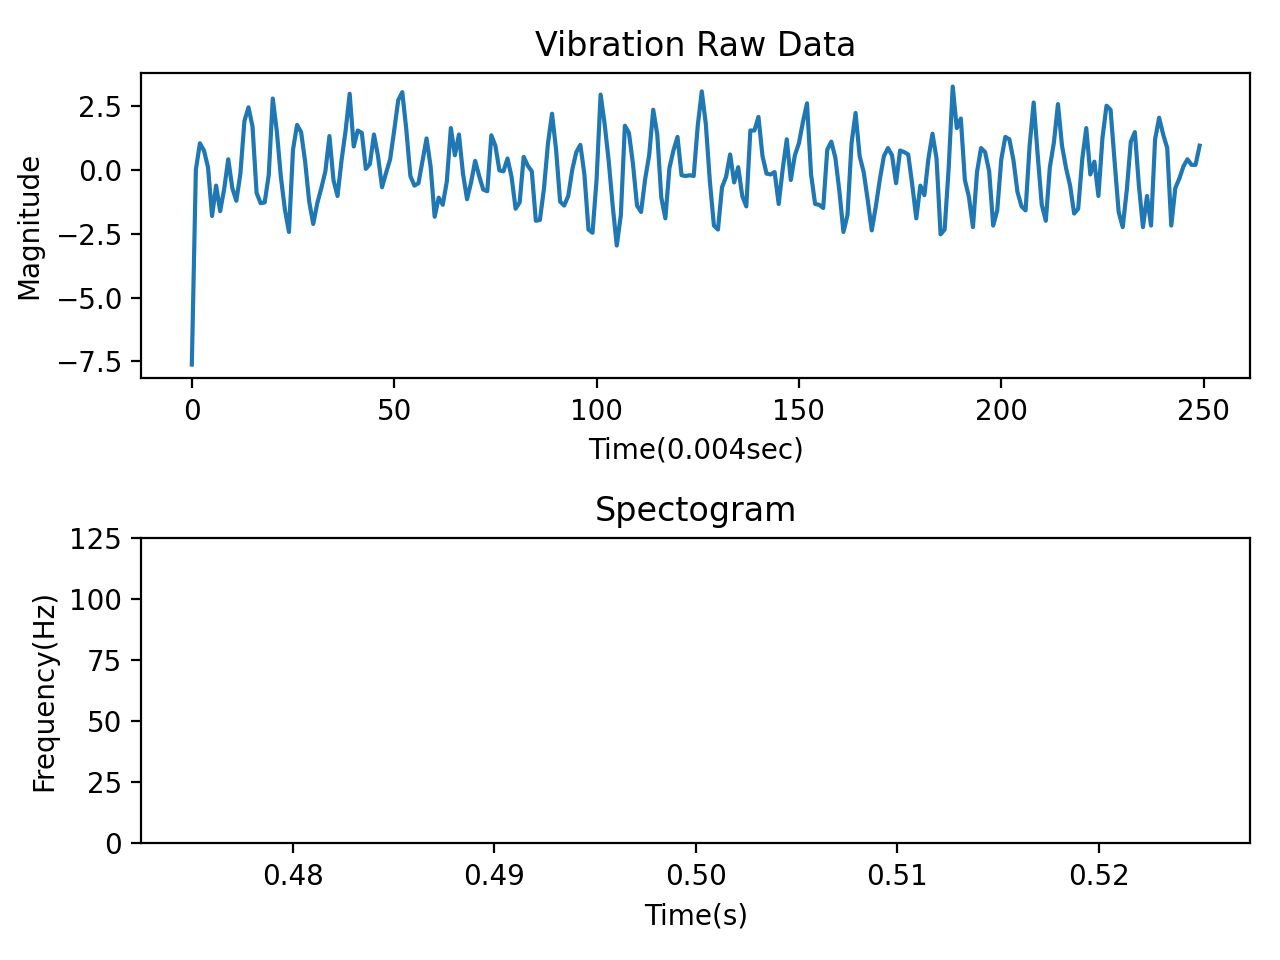
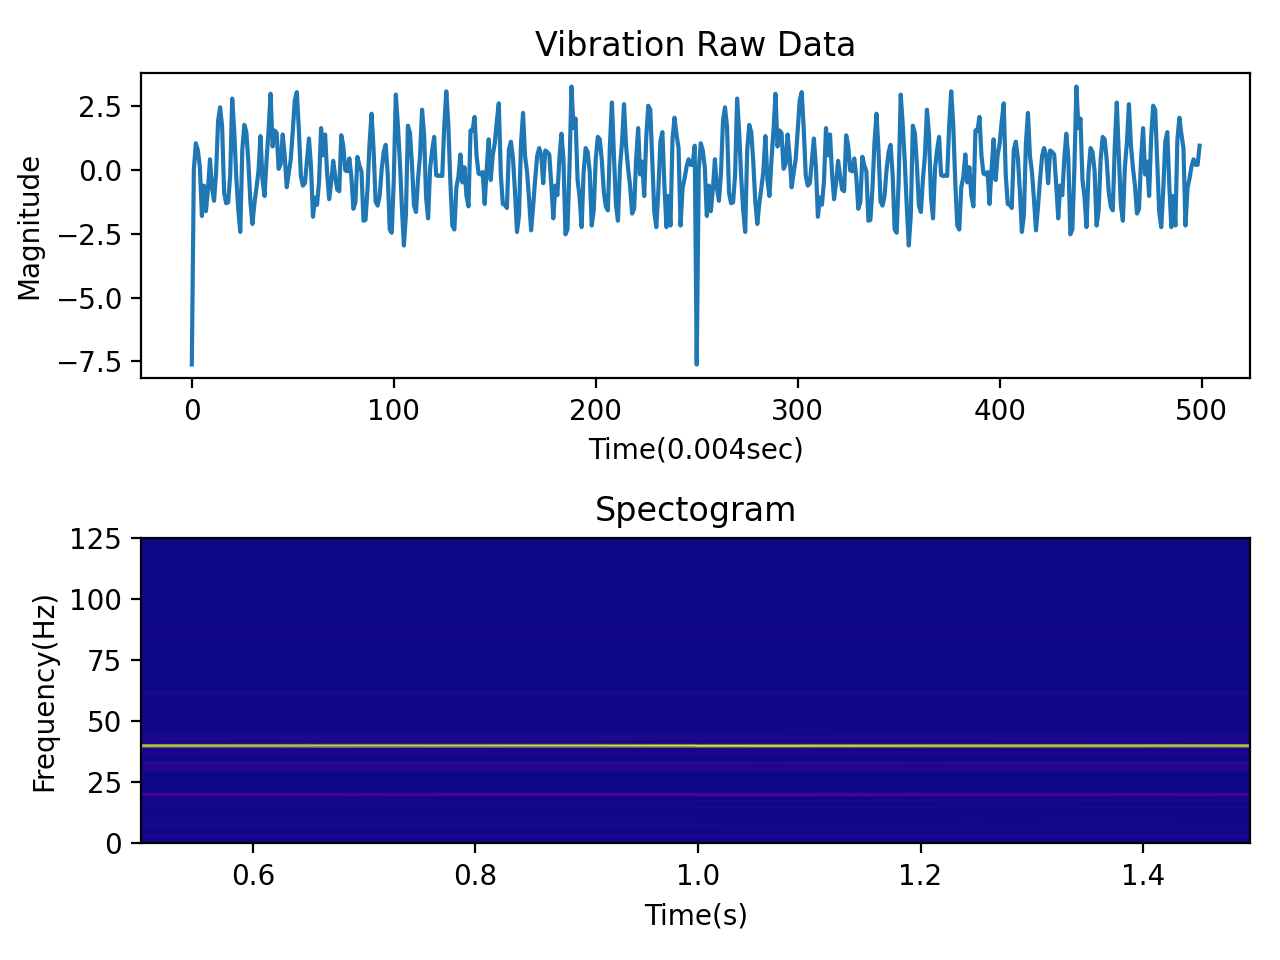
fixed

diff --git a/python/sensor_monitor/app.py b/python/sensor_monitor/app.py
@@ -34,26 +34,59 @@ WORKING_PATH = pathlib.Path(__file__).parent # working path
 APP_UI = WORKING_PATH / "MainWindow.ui" # Qt-based UI file
 APP_NAME = "vib-sensor-monitor" # application name
 
-def create_matplotlib_image():
-    # Matplotlib 그래프 생성 예제
-    fig, ax = plt.subplots()
-    ax.plot([1, 2, 3, 4], [1, 4, 2, 3])
-    ax.set_xlabel('X-axis')
-    ax.set_ylabel('Y-axis')
-    ax.set_title('Matplotlib Graph')
-
-    # 그래프를 이미지로 렌더링
-    fig.canvas.draw()
-
-    # QImage로 변환
-    width, height = fig.canvas.get_width_height()
-    print(width, height)
-    image = QImage(fig.canvas.buffer_rgba(), width, height, QImage.Format.Format_RGBA8888)
+def gaussian_spectrogram(x, fs, window_dur=0.005, step_dur=None, dyn_range=120, 
+                         cmap=None, ax=None):
+    from scipy.signal import spectrogram, gaussian
+    from matplotlib.colors import LogNorm
+    from matplotlib.cm import get_cmap
     
-    # qimage = ImageQt(image2)
-    # pixmap = QtGui.QPixmap.fromImage(qimage)
+    # set default for step_dur, if unspecified. This value is optimal for Gaussian windows.
+    if step_dur is None:
+        step_dur = window_dur / np.sqrt(np.pi) / 8.
+    
+    # convert window & step durations from seconds to numbers of samples (which is what
+    # scipy.signal.spectrogram takes as input).
+    window_nsamp = int(window_dur * fs * 2)
+    step_nsamp = int(step_dur * fs)
+    
+    # make the window. A Gaussian filter needs a minimum of 6σ - 1 samples, so working
+    # backward from window_nsamp we can calculate σ.
+    window_sigma = (window_nsamp + 1) / 6
+    window = gaussian(window_nsamp, window_sigma)
+    
+    # convert step size into number of overlapping samples in adjacent analysis frames
+    noverlap = window_nsamp - step_nsamp
+    
+    # compute the power spectral density
+    freqs, times, power = spectrogram(x, detrend=False, mode='psd', fs=fs,
+                                      scaling='density', noverlap=noverlap,
+                                      window=window, nperseg=window_nsamp)
 
-    return image
+    p_ref = 2e-5  # 20 μPa, the standard reference pressure for sound in air
+
+    # set lower bound of colormap (vmin) from dynamic range. The upper bound defaults
+    # to the largest value in the spectrogram, so we don't need to set it explicitly.
+    dB_max = 10 * np.log10(power.max() / (p_ref ** 2))
+    vmin = p_ref * 10 ** ((dB_max - dyn_range) / 10)
+
+    # set default colormap, if none specified
+    if cmap is None:
+        cmap = get_cmap('Greys')
+    # or if cmap is a string, get the actual object
+    elif isinstance(cmap, str):
+        cmap = get_cmap(cmap)
+
+    # create the figure if needed
+    if ax is None:
+        fig, ax = plt.subplots()
+
+    # other arguments to the figure
+    extent = (times.min(), times.max(), freqs.min(), freqs.max())
+
+    # plot
+    ax.imshow(power, origin='lower', aspect='auto', cmap=cmap,
+              norm=LogNorm(), extent=extent, vmin=vmin, vmax=None)
+    return ax
 
 class SensorMonitor(QMainWindow):
     def __init__(self, broker_ip:str):
@@ -79,10 +112,11 @@ class SensorMonitor(QMainWindow):
         if "fs" in payload.keys():
             _fs = payload["fs"]
             _ts = 1/_fs
+            print(f"Sample Frequency : {_fs}")
         
         if "data" in payload.keys():        
-            
             _data = np.array(payload["data"])
+            print(f"Data size : {_data.size}")
             _data_mean = _data.mean()
             _normalized_data = _data - _data_mean
             
@@ -98,8 +132,9 @@ class SensorMonitor(QMainWindow):
             ax[0].set_xlabel(f"Time({_ts}sec)")
             ax[0].set_ylabel('Magnitude')
             
-            f, tt, Sxx = signal.spectrogram(_normalized_data, fs=_fs, nperseg=_fs)
-            c = ax[1].pcolormesh(tt, f, Sxx, shading='gouraud', cmap='RdBu')
+            freqs, times, power = signal.spectrogram(_normalized_data, detrend=False, mode='psd', fs=_fs, nperseg=_fs, scaling='density', noverlap=1)
+            c = ax[1].pcolormesh(times, freqs, power, shading='gouraud', cmap='plasma')
+            
             ax[1].set_title('Spectogram')
             ax[1].set_xlabel('Time(s)')
             ax[1].set_ylabel('Frequency(Hz)')

diff --git a/python/fft/spectogram.py b/python/fft/spectogram.py
@@ -18,7 +18,7 @@ if __name__ == "__main__":
     _source_data = np.loadtxt(args.csv, delimiter=',')
     
     _sampling_freq = 250
-    _sampleing_time = 1/_sampling_freq
+    _sampling_time = 1/_sampling_freq
     
     # signal normalization
     _source_mean = _source_data.mean()
@@ -26,7 +26,7 @@ if __name__ == "__main__":
     
     fx = np.fft.fft(_source_data, n=None, axis=-1, norm=None)/len(_source_data)
     amplitude = abs(fx)*2/len(fx)
-    frequency = np.fft.fftfreq(len(fx), _sampleing_time)
+    frequency = np.fft.fftfreq(len(fx), _sampling_time)
     peak_frequency = frequency[amplitude.argmax()]
     print("Peak Frequenct : {}".format(peak_frequency))
 
@@ -35,7 +35,7 @@ if __name__ == "__main__":
     plt.subplot(2, 1, 1)                # nrows=2, ncols=1, index=1
     plt.plot(_source_data, '-')
     plt.title('Vibration Raw Data')
-    plt.xlabel('Time({}sec)'.format(_sampleing_time))
+    plt.xlabel('Time({}sec)'.format(_sampling_time))
     plt.ylabel('Magnitude')
 
     plt.subplot(2, 1, 2)                # nrows=2, ncols=1, index=2
